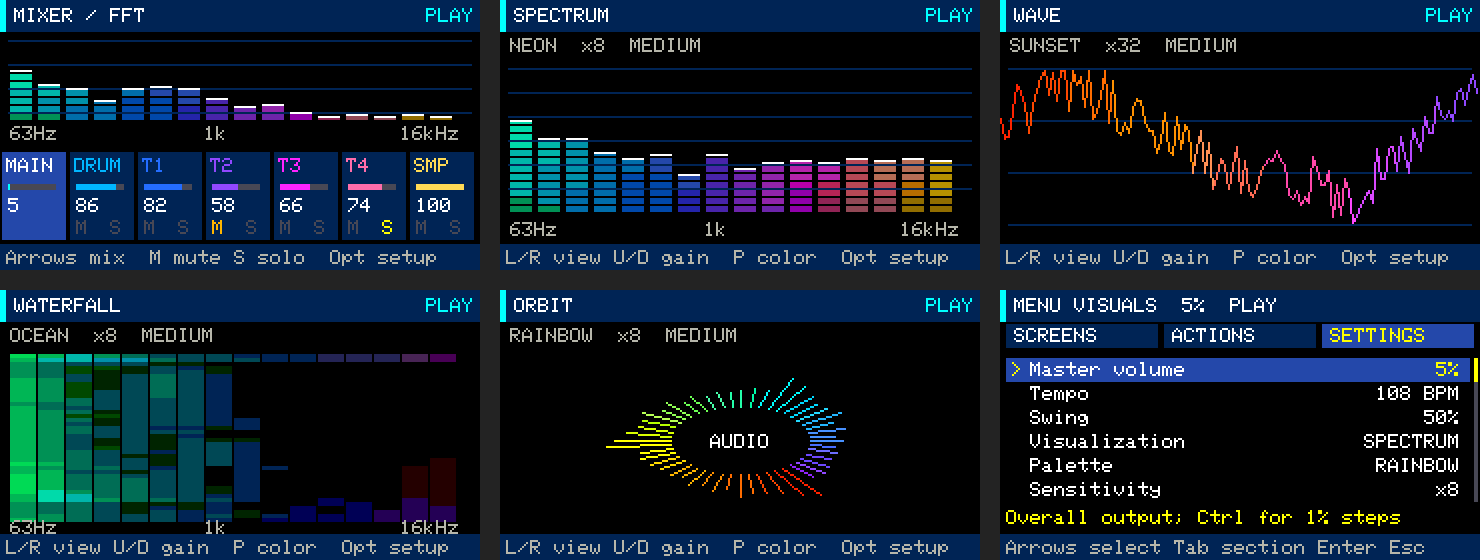
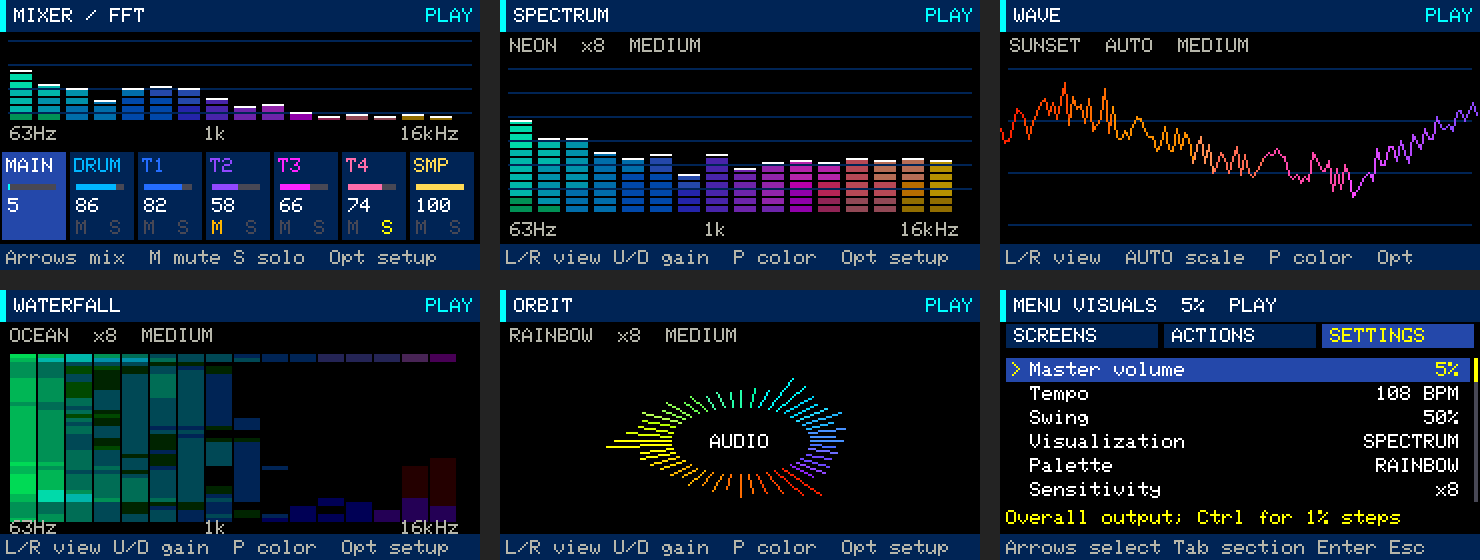
Auto-scale Wave and keep RGB feedback saturated and distinct

diff --git a/components/gb_core/src/audio_visual.cpp b/components/gb_core/src/audio_visual.cpp
@@ -82,11 +82,31 @@ void AudioVisual::process(const AudioFrame& frame) {
         unsigned old=bands_[b], divisor=1u<<settings_.smoothing;
         bands_[b] = target>=old ? target : old-std::max(1u,(old-target)/divisor);
     }
-    // Rising zero-crossing trigger reduces waveform jitter without normalizing volume.
+    // Auto range: catch a louder transient immediately, recover zoom gradually.
+    // A fixed noise floor avoids magnifying silence; keep 15% vertical headroom.
+    float wavePeak=0;
+    for (auto x:frame.mono) wavePeak=std::max(wavePeak,std::abs(x-mean));
+    constexpr float release[]={.70f,.85f,.93f};
+    waveScale_=std::max({32.f,wavePeak,waveScale_*release[settings_.smoothing]});
+    // Rising zero-crossing trigger reduces horizontal jitter.
     unsigned trigger=0;
     for (unsigned i=1;i<kFftSize/2;++i)
         if (frame.mono[i-1]<=mean && frame.mono[i]>mean) { trigger=i; break; }
-    for (unsigned i=0;i<120;++i) wave_[i]=int16_t(std::clamp((frame.mono[trigger+i*2]-mean)*gain/32768.f,-1.f,1.f)*255);
+    for (unsigned i=0;i<120;++i)
+        wave_[i]=peak_<=2 ? 0 : int16_t((frame.mono[trigger+i*2]-mean)/waveScale_*216);
+    // Hold each hue for 250 ms: rapid note-to-note changes can visually blend.
+    // Multiple strong spectral peaks add a slow palette sweep during dense mixes.
+    if (peak_<=2 || !dominantBin_) ledHold_=0;
+    else if (!ledHold_) {
+        unsigned peaks=0;
+        for (unsigned i=2;i<kFftSize/2;++i)
+            if (real_[i]>.25f*strongest && real_[i]>real_[i-1] && real_[i]>=real_[i+1]) ++peaks;
+        if (peaks>=2) ledPhase_=(ledPhase_+13)%256;
+        float semitones=12*std::log2(dominantBin_*62.5f/440.f)+69;
+        unsigned note=unsigned(std::max(0,int(std::lround(semitones))))%12;
+        ledPosition_=(note*255/11+(peaks>=2?ledPhase_:0))%256;
+        ledHold_=4;
+    } else --ledHold_;
     for (unsigned n=0;n<settings_.motion;++n) {
         std::memcpy(history_[historyAt_],bands_,sizeof(bands_)); historyAt_=(historyAt_+1)%48;
     }
@@ -111,11 +131,17 @@ uint16_t AudioVisual::ink(unsigned position,unsigned intensity) const {
 }
 uint32_t AudioVisual::ledRgb() const {
     if (!settings_.led || peak_<=2 || !dominantBin_) return 0;
-    // Pitch class from the dominant FFT bin; output energy controls brightness.
-    float semitones=12*std::log2(dominantBin_*62.5f/440.f)+69;
-    unsigned note=unsigned(std::max(0,int(std::lround(semitones))))%12;
+    // Remove the white component from screen palettes, then normalize brightness.
+    // At least one physical LED channel stays off, even at maximum signal level.
+    uint32_t color=rgb(settings_.palette,ledPosition_);
+    unsigned channels[]={unsigned(color>>16),unsigned((color>>8)&255),unsigned(color&255)};
+    unsigned low=std::min({channels[0],channels[1],channels[2]});
+    unsigned span=std::max({channels[0],channels[1],channels[2]})-low;
     unsigned level=std::min(255u,peak_*(1u<<settings_.gain)/64);
-    return rgb(settings_.palette,note*255/11,level*settings_.led/100);
+    unsigned brightness=level*settings_.led/100;
+    uint32_t result=0;
+    for (auto channel:channels) result=(result<<8)|((channel-low)*brightness/std::max(1u,span));
+    return result;
 }
 void AudioVisual::spectrum(Canvas& c,int top,int height) const {
     for (int y=top;y<top+height;y+=12) c.fillRect(4,y,232,1,color::Panel);
@@ -128,7 +154,9 @@ void AudioVisual::spectrum(Canvas& c,int top,int height) const {
 void AudioVisual::draw(Canvas& c,bool playing) const {
     c.fillRect(0,0,240,135,color::Background);
     style::header(c,modeName(settings_.mode),playing?"PLAY":"LIVE");
-    char text[40]; std::snprintf(text,sizeof(text),"%s  x%u  %s",paletteName(settings_.palette),1u<<settings_.gain,smoothingName(settings_.smoothing));
+    char text[40];
+    if (settings_.mode==1) std::snprintf(text,sizeof(text),"%s  AUTO  %s",paletteName(settings_.palette),smoothingName(settings_.smoothing));
+    else std::snprintf(text,sizeof(text),"%s  x%u  %s",paletteName(settings_.palette),1u<<settings_.gain,smoothingName(settings_.smoothing));
     c.text(5,19,text,color::Muted);
     if (settings_.mode==0) {
         spectrum(c,34,72); c.text(5,111,"63Hz",color::Muted); c.text(102,111,"1k",color::Muted); c.text(200,111,"16kHz",color::Muted);
@@ -149,7 +177,7 @@ void AudioVisual::draw(Canvas& c,bool playing) const {
         }
         c.text(105,72,peak_>2?"AUDIO":"QUIET",color::Text);
     }
-    style::footer(c,"L/R view U/D gain  P color  Opt setup");
+    style::footer(c,settings_.mode==1 ? "L/R view  AUTO scale  P color  Opt" : "L/R view U/D gain  P color  Opt setup");
 }
 void AudioVisual::drawMixer(Canvas& c,const Project& p,uint8_t strip,bool playing) const {
     c.fillRect(0,0,240,135,color::Background); style::header(c,"MIXER / FFT",playing?"PLAY":"LIVE");

diff --git a/tests/test_audio_visual.cpp b/tests/test_audio_visual.cpp
@@ -4,6 +4,8 @@
 #include <cmath>
 #include <cstring>
 #include <vector>
+#include <algorithm>
+#include <set>
 using namespace gb;
 namespace {
 AudioFrame tone(unsigned bin, int level=1500) {
@@ -18,6 +20,19 @@ struct CanvasCheck : Canvas {
     }
     void text(int x,int y,const char* t,uint16_t) override { valid &= x>=0 && y>=0 && x+int(strlen(t))*6<=240 && y+8<=135; }
 };
+struct WaveCanvas : Canvas {
+    int top=135,bottom=0;
+    bool automatic=false;
+    void fillRect(int,int y,int w,int h,uint16_t) override {
+        if(w==1 && h==1) { top=std::min(top,y);bottom=std::max(bottom,y); }
+    }
+    void text(int,int,const char* t,uint16_t) override { if(strstr(t,"AUTO"))automatic=true; }
+};
+WaveCanvas waveView(const AudioVisual& v) { WaveCanvas c;v.draw(c,true);return c; }
+unsigned hue(uint32_t rgb) {
+    unsigned r=rgb>>16,g=(rgb>>8)&255,b=rgb&255,high=std::max({r,g,b});
+    return high ? ((r*15/high)<<8)|((g*15/high)<<4)|(b*15/high) : 0;
+}
 struct UiSession {
     Project p;
     std::vector<Command> commands;
@@ -50,9 +65,48 @@ TEST(fftSensitivityOnlyAffectsDisplayAndSilenceDecays) {
     v.adjust(2,1);v.process(f);CHECK_EQ(v.band(7)>band,true);CHECK_EQ(v.peak(),peak);
     for(int i=0;i<40;++i)v.process(AudioFrame{});
     for(unsigned i=0;i<kSpectrumBands;++i)CHECK_EQ(v.band(i),0);
-    v.process(tone(7));auto low=v.ledRgb();v.process(tone(11));CHECK_EQ(low!=v.ledRgb(),true);
+    v.process(tone(7));auto low=v.ledRgb();for(int i=0;i<5;++i)v.process(tone(11));CHECK_EQ(low!=v.ledRgb(),true);
     for(int i=0;i<10;++i)v.adjust(5,-1);
     CHECK_EQ(v.ledRgb(),0u);
+}
+TEST(waveAutoRangeKeepsQuietAndLoudSignalsVisibleWithoutClipping) {
+    for(int gain=0;gain<6;++gain) {
+        AudioVisual v;VisualSettings s;s.mode=1;s.gain=gain;v.setSettings(s);
+        v.process(tone(8,300));auto quiet=waveView(v);
+        CHECK_EQ(quiet.automatic,true);CHECK_EQ(quiet.top>=40 && quiet.bottom<=106,true);
+        CHECK_EQ(quiet.bottom-quiet.top>=60,true);
+        v.process(tone(8,32000));auto loud=waveView(v);
+        CHECK_EQ(loud.top,quiet.top);CHECK_EQ(loud.bottom,quiet.bottom);
+        v.process(tone(8,300));auto recovering=waveView(v);
+        CHECK_EQ(recovering.bottom-recovering.top<quiet.bottom-quiet.top,true);
+        for(int i=0;i<60;++i)v.process(tone(8,300));
+        CHECK_EQ(waveView(v).top,quiet.top);CHECK_EQ(waveView(v).bottom,quiet.bottom);
+        AudioFrame extreme;extreme.mono[3]=-32768;for(unsigned i=4;i<kFftSize;++i)extreme.mono[i]=32767;
+        v.process(extreme);auto transient=waveView(v);CHECK_EQ(transient.top>=40 && transient.bottom<=106,true);
+        for(int i=0;i<60;++i)v.process(tone(8,3));
+        CHECK_EQ(waveView(v).bottom-waveView(v).top<8,true);
+        v.process(AudioFrame{});CHECK_EQ(waveView(v).top,73);CHECK_EQ(waveView(v).bottom,73);
+    }
+}
+TEST(ledStaysSaturatedAndHoldsDistinctHuesInDenseAudio) {
+    for(unsigned palette=0;palette<4;++palette) {
+        AudioVisual v;VisualSettings s;s.palette=palette;s.led=50;v.setSettings(s);
+        auto mix=tone(7,500);auto upper=tone(31,500);
+        for(unsigned i=0;i<kFftSize;++i)mix.mono[i]+=upper.mono[i];
+        std::set<unsigned> hues;unsigned held=0;
+        for(int n=0;n<80;++n) {
+            v.process(mix);auto color=v.ledRgb();
+            unsigned r=color>>16,g=(color>>8)&255,b=color&255;
+            CHECK_EQ(std::min({r,g,b}),0u);CHECK_EQ(std::max({r,g,b})<=127,true);
+            if(n%5==0) { held=hue(color);hues.insert(held); }
+            else CHECK_EQ(hue(color),held);
+        }
+        CHECK_EQ(hues.size()>=6,true);
+        v.process(AudioFrame{});CHECK_EQ(v.ledRgb(),0u);
+    }
+    AudioVisual v;v.process(tone(7));auto first=hue(v.ledRgb());
+    for(int i=0;i<4;++i) { v.process(tone(11));CHECK_EQ(hue(v.ledRgb()),first); }
+    v.process(tone(11));CHECK_EQ(hue(v.ledRgb())!=first,true);
 }
 TEST(audioTapCapturesContiguousStereoAndNeverBlocksOnFullQueue) {
     AudioTap tap;AudioFrame f;int16_t stereo[512];

diff --git a/tools/device_audio_visual_test.py b/tools/device_audio_visual_test.py
@@ -13,6 +13,12 @@ def visual(device):
     return parse_fields(device.wait_for('VIS '))
 
 
+def hue(rgb):
+    channels = [(rgb >> shift) & 255 for shift in (16, 8, 0)]
+    high = max(channels)
+    return tuple(channel * 15 // high for channel in channels) if high else (0, 0, 0)
+
+
 def checks():
     r = Report()
     d = open_device()
@@ -63,13 +69,15 @@ def checks():
         before = d.cpu()
         d.key('8', 'f')
         colors = set()
+        saturated = True
         for mode in range(4):
             r.check(f'visual mode {mode} selected', visual(d)['mode'] == mode)
             first_frame = visual(d)['frames']
             for _ in range(12):
                 time.sleep(.25)
                 v = visual(d)
-                colors.add(v['rgb'])
+                colors.add(hue(v['rgb']))
+                saturated &= min((v['rgb'] >> shift) & 255 for shift in (16, 8, 0)) == 0
                 if v['peak'] > 1557:
                     raise RuntimeError('analysis observed output above the 5% ceiling')
             r.check(f'visual mode {mode} receives ongoing audio', visual(d)['frames'] - first_frame >= 40)
@@ -84,7 +92,8 @@ def checks():
         r.check('FFT and display fit timing budget', v['fft_max_us'] < 15000 and after['ui_frame_max_us'] < 50000)
         r.check('audio DSP stays below 50 percent', after['load_permille'] < 500)
         r.check('no audio or queue failures', all(after[k] == before[k] for k in ('tx_overflows', 'rx_overflows', 'failures', 'event_overflows')))
-        r.check('RGB transport works with varied song colors', len(colors - {0}) > 2 and v['rgb_ready'] == 1 and v['rgb_failures'] == 0)
+        r.check('RGB transport works with varied song hues', len(colors - {(0, 0, 0)}) > 2 and v['rgb_ready'] == 1 and v['rgb_failures'] == 0)
+        r.check('dense song colors have no white component', saturated)
         print('INFO visual', v)
         print('INFO audio/display', after)
         d.level(100)

diff --git a/tools/render_interface.cpp b/tools/render_interface.cpp
@@ -37,6 +37,6 @@ int main(){gb::makeDemoProject(0,p);gb::AppUi ui(p,sink,nullptr);Dump c;bool ren
  auto advance=[&](){unsigned loudest=0;for(int n=0;n<96;++n){engine.render(pcm,512);unsigned peak=0;for(unsigned i=0;i<gb::kFftSize;++i){frame.mono[i]=pcm[i*2];peak=std::max(peak,unsigned(std::abs(int(frame.mono[i]))));}ui.audioFrame(frame);if(peak>loudest){loudest=peak;best=frame;}}if(ui.visual().settings().mode==1)ui.audioFrame(best);};
  renderPlaying=true;ui.setPlayback(true);advance();key('7',true);draw(13);
  key('8',true);
- for(int mode=0;mode<4;++mode){auto settings=ui.visual().settings();settings.palette=mode;settings.gain=mode==1?5:3;ui.visual().setSettings(settings);advance();draw(14+mode);key('/');}
+ for(int mode=0;mode<4;++mode){auto settings=ui.visual().settings();settings.palette=mode;settings.gain=3;ui.visual().setSettings(settings);advance();draw(14+mode);key('/');}
  key(gb::key::Opt);key(gb::key::Tab);key(gb::key::Tab);draw(18);
 }

diff --git a/components/gb_core/src/ui_menu.cpp b/components/gb_core/src/ui_menu.cpp
@@ -127,8 +127,8 @@ constexpr MenuItem visualActions[] = {
 constexpr MenuItem visualSettings[] = {
     {"Visualization", "Left/right also changes the view", O::VisualParameter, 0},
     {"Palette", "Neon / Sunset / Ocean / Rainbow", O::VisualParameter, 1},
-    {"Sensitivity", "Display gain only; audio unchanged", O::VisualParameter, 2},
-    {"Smoothing", "Spectrum release: fast to slow", O::VisualParameter, 3},
+    {"Sensitivity", "FFT / LED gain; Wave scales itself", O::VisualParameter, 2},
+    {"Smoothing", "Spectrum / Wave scale release", O::VisualParameter, 3},
     {"Motion speed", "Waterfall scroll / orbit rotation", O::VisualParameter, 4}
 };
 constexpr MenuItem fftSettings[] = {

diff --git a/components/gb_core/include/gb/audio_visual.h b/components/gb_core/include/gb/audio_visual.h
@@ -48,6 +48,8 @@ private:
     float real_[kFftSize] = {}, imag_[kFftSize] = {}, window_[kFftSize] = {};
     uint8_t bands_[kSpectrumBands] = {}, history_[48][kSpectrumBands] = {};
     int16_t wave_[120] = {};
+    float waveScale_ = 32.f;
+    unsigned ledPosition_ = 0, ledPhase_ = 0, ledHold_ = 0;
     uint32_t revisions_ = 0, updates_ = 0;
     unsigned peak_ = 0, dominantBin_ = 0, historyAt_ = 0;
 };

diff --git a/docs/audio-visuals.md b/docs/audio-visuals.md
@@ -33,7 +33,7 @@ bars display configured levels rather than measured channel peaks.
 | Mode | Display |
 |---|---|
 | **Spectrum** | Sixteen colored frequency bands with segmented bars |
-| **Wave** | A colored waveform with a rising-crossing trigger to reduce jitter |
+| **Wave** | An automatically scaled waveform with a rising-crossing trigger to reduce jitter |
 | **Waterfall** | Recent spectrum history, with low frequencies on the left and newest data at the top |
 | **Orbit** | Forty-eight radial strokes whose lengths follow the spectrum |
 
@@ -51,13 +51,18 @@ Open **Opt → SETTINGS**:
 |---|---|
 | Visualization | Spectrum, Wave, Waterfall, Orbit |
 | Palette | Neon, Sunset, Ocean, Rainbow; shared by visuals and RGB |
-| Sensitivity | Display gain ×1, ×2, ×4, ×8, ×16 or ×32; does not change audio volume |
-| Smoothing | Fast, Medium or Slow spectrum release |
+| Sensitivity | FFT display and LED gain ×1, ×2, ×4, ×8, ×16 or ×32; Wave scales automatically; audio volume is unchanged |
+| Smoothing | Fast, Medium or Slow spectrum release and Wave scale recovery |
 | Motion speed | 1–3; waterfall scrolling and orbit rotation |
 | RGB brightness | 0–50% in 5% steps; zero disables the LED |
 
-At low listening levels, raise **Sensitivity** to make the waveform easier to see.
-Tests and demos use 5% audio volume; visual gain remains independent.
+Wave displays **AUTO** and fits each incoming peak with 15% vertical headroom.
+A loud transient immediately reduces the display gain; the view zooms back in
+gradually as the signal fades. A fixed noise floor prevents tiny signals from
+filling the screen, and silence draws a flat line. Wave's vertical height is
+normalized, so it is not an absolute volume meter. Sensitivity still controls the
+other visualizations and LED response. Tests and demos use 5% audio volume;
+display scaling never changes the audio.
 
 These are device-wide display preferences, separate from song files. They save to
 the `gb-visual` NVS namespace after three idle seconds while playback/recording and
@@ -67,10 +72,14 @@ Isolated hardware tests use defaults and never write normal display preferences.
 ## RGB LED
 
 RGB feedback works in every workspace, including instrument playing. Color follows
-the approximate pitch class of the strongest FFT bin, while brightness follows
-output energy. Chords and percussion can change color as their dominant frequencies
-change; this is audio feedback, not exact MIDI-note identification. The selected
-palette and RGB brightness control it. At silence, the LED turns off.
+the approximate pitch class of the strongest FFT bin. When multiple strong spectral
+peaks are present, a slow palette sweep adds variety. Each hue is held for 250 ms
+at the normal analysis rate so rapid note changes are easier to distinguish.
+LED colors have their white component removed: at least one RGB channel stays off,
+including during loud, dense mixes. Brightness follows output energy, sensitivity
+and the RGB brightness limit. At silence, the LED turns off immediately on the
+next analysis frame. This is audio feedback, not exact MIDI-note identification;
+harmonics can also trigger the palette sweep.
 
 On Cardputer ADV, GPIO38 powers the RGB LED and controls the display backlight.
 While RGB is enabled, Groovebox uses full backlight for stable LED power. Setting
@@ -107,12 +116,15 @@ documentation images using the application drawing code and demo-engine PCM at 5
 ### Device measurements for this update
 
 The automated audio-visual scenario passed at 5% output: the measured FFT maximum
-was 0.84 ms and display-frame maximum about 15.6 ms. Neon Drive chorus playback
-peaked at 24.3% of the audio core with no new I2S/event overflows or exchange errors.
+was 0.92 ms and display-frame maximum about 15.6 ms. Neon Drive chorus playback
+peaked at 24.4% of the audio core with no new I2S/event overflows or exchange errors.
 RGB transmissions completed without driver errors and their color values changed
-with live notes and song audio; emitted light was not measured optically.
+with live notes and song audio. The dense-song test checks distinct hues separately
+from brightness and confirms that every sampled color has a zero channel.
+Emitted light was not measured optically. Host regressions cover quiet-to-loud
+Wave transitions, scale recovery, silence, vertical headroom and LED hue holding.
 
-A separate 60-second sampler stress run combined four sample voices, four synth
+The preceding update's 60-second sampler stress run combined four sample voices, four synth
 voices, eight drums and microphone recording. Peak audio load was 42.2%, with no
 new I2S/event overflows, exchange errors or dropped recording blocks. Free heap
 was approximately 50 KB. The regular project and backup checksums were unchanged.

diff --git a/README.md b/README.md
@@ -55,7 +55,8 @@ referenced separately, so transfer the `samples` folder with your projects.
 
 Press **Fn+7** for a mixer with a live FFT spectrum, or **Fn+8** for four configurable
 visualizations. Choose colors, sensitivity, smoothing and motion in SETTINGS.
-The RGB LED follows instrument and song audio, with adjustable brightness.
+Wave automatically fits quiet passages and loud peaks. The RGB LED follows instrument
+and song audio with saturated, held colors and adjustable brightness.
 
 ![FFT mixer and four configurable audio-reactive visualizations](docs/images/audio-visuals.png)
 

diff --git a/docs/controls.md b/docs/controls.md
@@ -134,5 +134,6 @@ Every workspace menu includes **Key reference** for the current screen.
 `Fn+7` opens the FFT mixer: ←/→ selects a strip, ↑/↓ changes level, M/S toggles
 mute/solo. `Fn+8` opens Visuals: ←/→ or Enter changes mode, ↑/↓ changes sensitivity,
 and P cycles palettes. **Opt → SETTINGS** configures smoothing, motion and RGB
-brightness. These arrow controls also accept Fn.
+brightness. Wave uses automatic scaling; sensitivity affects the FFT views and LED.
+These arrow controls also accept Fn.
 [Four visualization modes and RGB feedback](audio-visuals.md)
